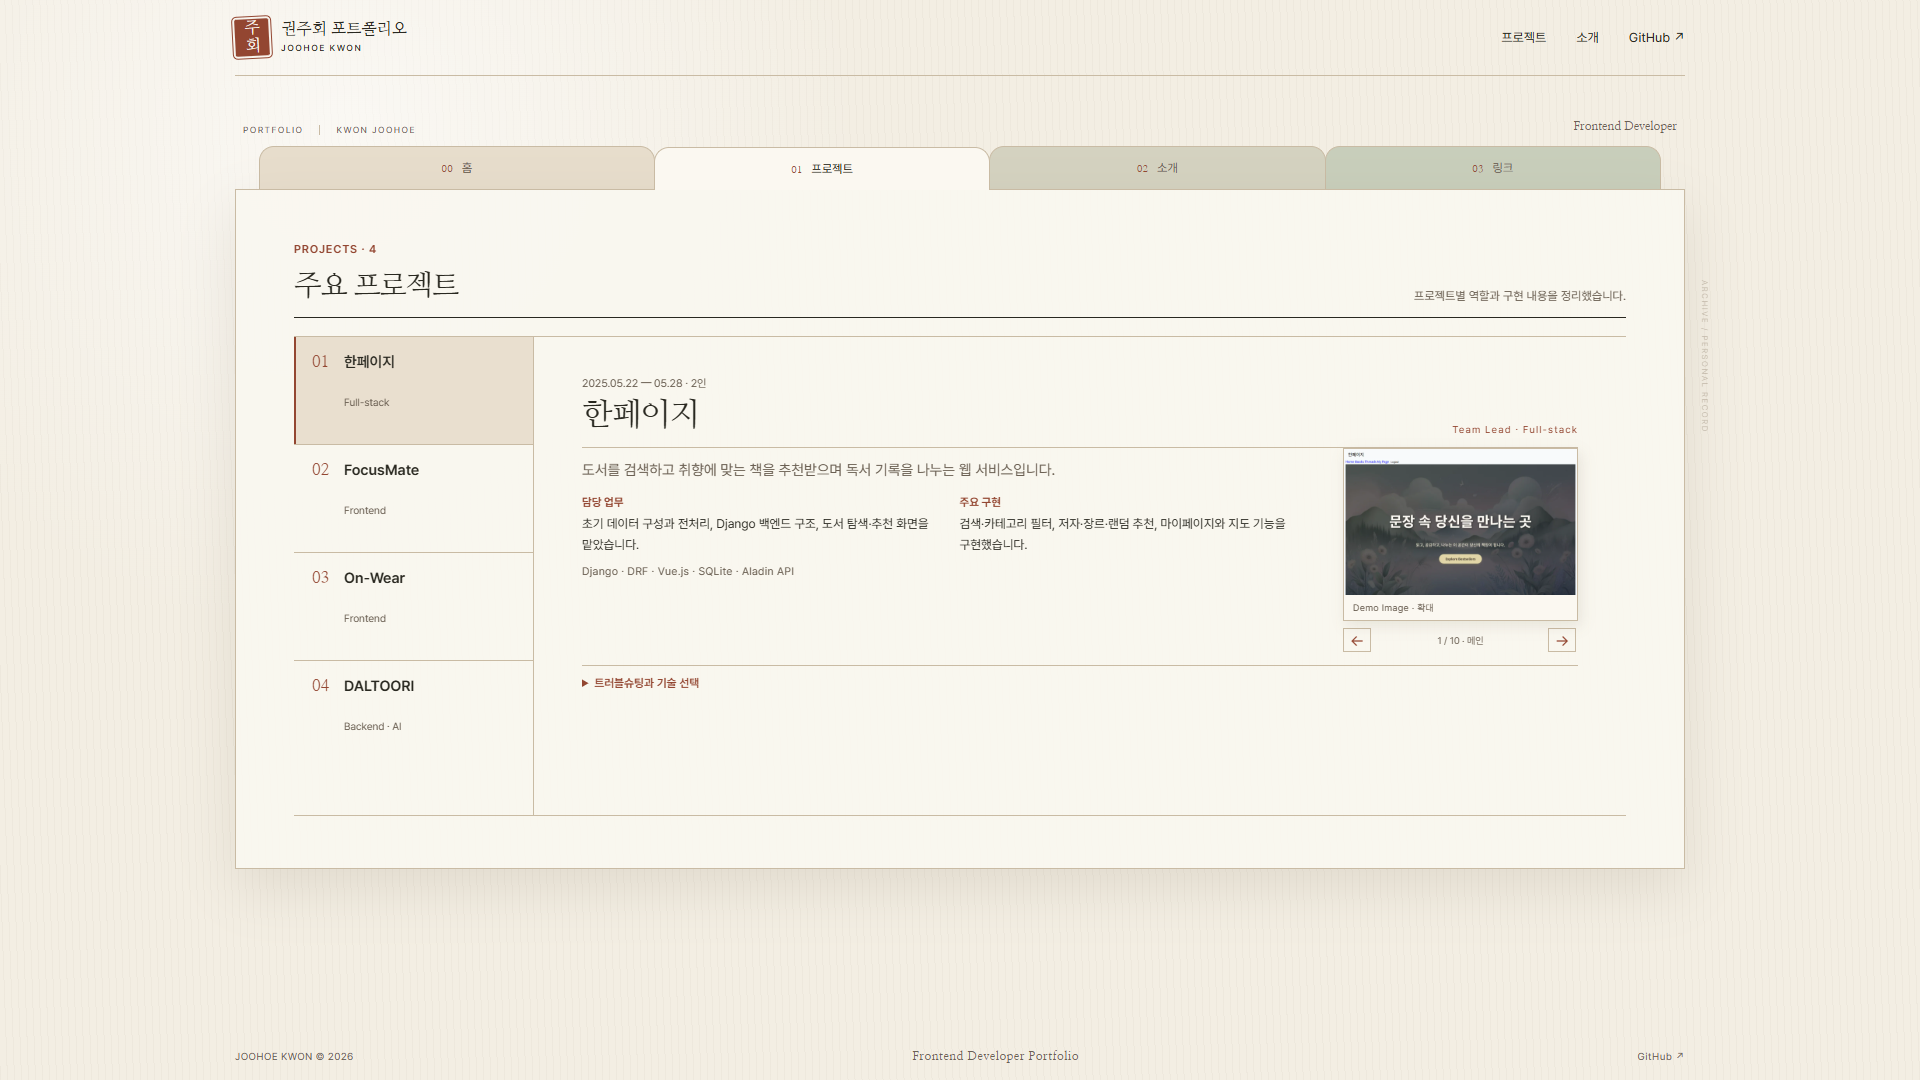
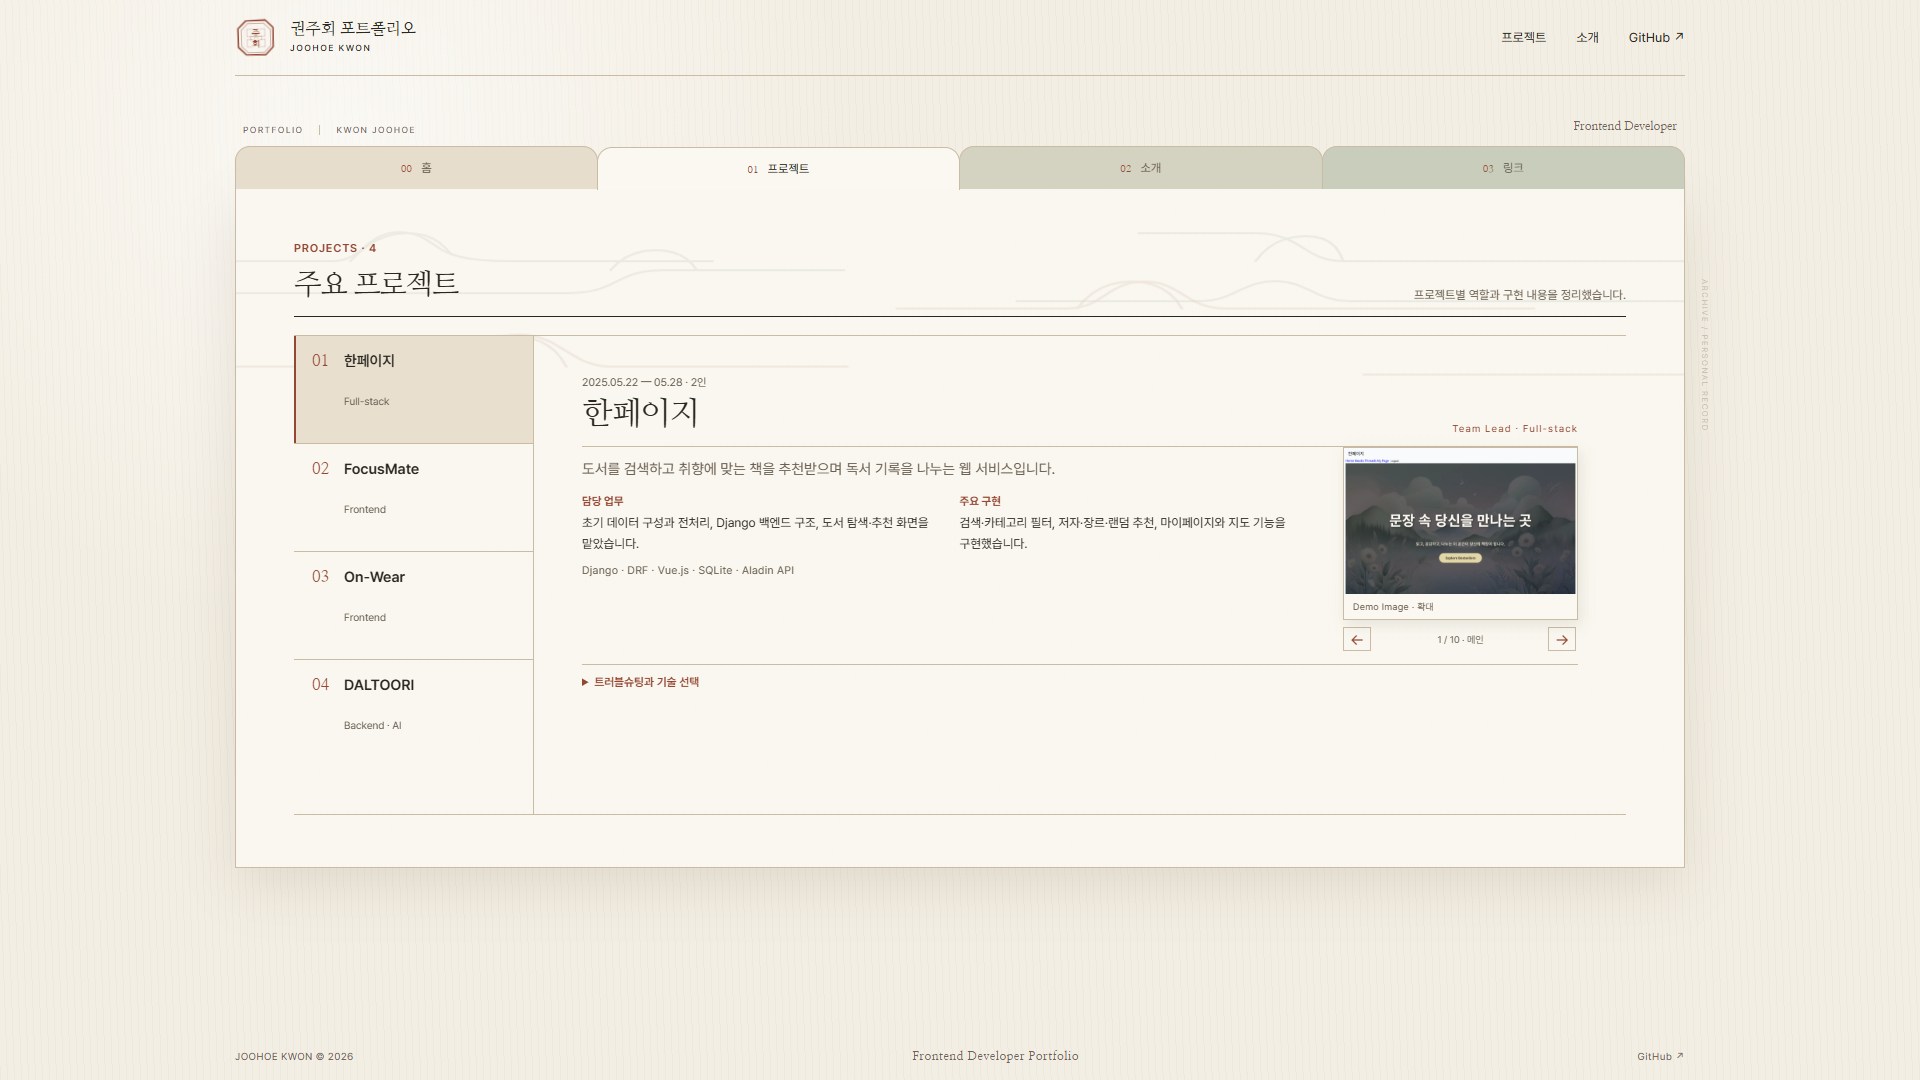
docs(t01): 인장과 구름 검증 기록

diff --git a/design.md b/design.md
@@ -1,6 +1,6 @@
 # introme 디자인 기준
 
-상태: 2026-09-15 전환형 아카이브 리디자인과 실제 프로젝트 화면 수록을 구현·로컬 검증했다. 동양풍 편집 디자인, 종이 파일 탭, 절제된 움직임을 유지하고 프로젝트별 실행 화면과 별도 트러블슈팅 기록을 더했다. 검증 결과는 docs/T01-tabbed-validation.json에 기록한다.
+상태: 2026-09-16 전환형 아카이브 리디자인과 실제 프로젝트 화면 수록을 구현·로컬 검증했다. 동양풍 편집 디자인, 종이 파일 탭, 절제된 움직임을 유지하고 프로젝트별 실행 화면과 별도 트러블슈팅 기록을 더했다. 붉은 면 도장은 선형 인장으로 교체하고, 기록철 뒤에는 낮은 대비의 전통 구름 선을 배치한다. 검증 결과는 docs/T01-tabbed-validation.json에 기록한다.
 
 ## 목적과 방향
 채용 담당자와 협업 상대에게 권주회의 관심과 일하는 방식, 구현 경험의 근거를 소개한다. 컨셉은 **한 권의 작업 기록**이다. 따뜻한 종이 위에 한글 명조체, 인장 같은 작은 이름표, 세로쓰기, 한옥 풍경을 배치한다. 계절은 소개 문구나 사용 시기를 규정하지 않고 사진의 분위기로만 남긴다. 경험 기록은 장식보다 먼저 읽혀야 한다.
@@ -44,6 +44,7 @@
 - 내부 검증 문구인 `확인된 역할`, `커밋에서 확인`을 사용자 화면에 노출하지 않는다. 화면에서는 `담당 업무`, `주요 구현`으로 쓴다.
 - 계절에 종속되는 소개 문장과 불필요한 버전 번호를 쓰지 않는다. 이미지는 분위기 요소로만 남긴다.
 - 사용자 참고 이미지의 파일철 구조, 넓은 여백, 종이색의 미묘한 차이와 얇은 먹선을 차용한다. 원본의 로고·QR·문구는 복제하지 않는다.
+- 상단 이름표는 붉은 면을 채운 사각 도장 대신 `주회` 글자와 매듭 문양을 결합한 선형 인장으로 표현한다. 기록철 탭은 좌우 여백 없이 본문 외곽선에 정확히 맞춘다.
 - 모바일에서는 활성 패널의 내용만 세로로 이어지고, 프로젝트 선택 탭은 2열로 정리한다.
 - 사진: 한옥 마당의 단풍, 한옥 창가의 책·찻잔·은행잎. ImageGen으로 이번 프로젝트를 위해 생성한 분위기 이미지2개다. 본인의 실제 촬영 사진이나 여행·독서 실적을 뜻하지 않는다.
 - 이미지마다 설명하는 alt를 두고, 사진 영역에 '계절 이미지 · AI 제작'을 표시한다. 파일은 dist/assets에 보관하며 화면에서 종횡비와 영역을 예약한다.
@@ -53,6 +54,7 @@
 - 최상위와 프로젝트 탭은 click·Enter·Space를 지원하며 방향키·Home·End로 이동한다. 포커스와 aria-selected를 함께 갱신한다.
 - 오래된 `#stories`와 `#evidence` 주소는 각각 프로젝트와 기록 패널로 연결한다.
 - 폴라로이드가10~12초 주기로3~5px만 움직인다. transform만 사용하고 내용이 뒤늦게 나타나는 스크롤 연출은 하지 않는다.
+- 기록철 뒤의 구름 선은 두 겹이 27~34초 주기로 수평 이동하며 콘텐츠 대비를 해치지 않는 낮은 불투명도를 유지한다.
 - '움직임 멈추기 / 다시 켜기' native button, aria-pressed 제공. 클릭·Enter·Space 동일 동작.
 - OS의 prefers-reduced-motion이면 자동 움직임과 전환, smooth scroll을 해제한다. OS 설정이 켜진 동안 화면 버튼은 '움직임 줄이기 적용 중'으로 표시한다.
 - JavaScript가 없으면 사진은 정지하고 네 최상위 패널과 네 프로젝트 패널을 모두 읽을 수 있다.

diff --git a/docs/T01-log.md b/docs/T01-log.md
@@ -106,3 +106,10 @@
 - 확대 dialog에도 이전·다음 버튼과 좌우 방향키 순환을 추가했다. 확대 화면을 넘기면 본문 캐러셀의 번호와 이미지도 함께 갱신된다.
 - 1366×768, 1920×1080, 390×844, 320×700에서 총 `10 / 8 / 7 / 4`장의 이미지 로딩, 본문·확대 캐러셀 순환, 키보드 탐색, 가로 넘침과 콘솔 오류를 확인했다.
 - FocusMate 인원을 5인으로 수정하고 프로젝트 로고 크기를 확대했다.
+
+## 2026-09-16 · 선형 인장과 구름 문양 정리
+
+- 상단의 붉은 면 도장을 `주회` 글자와 전통 매듭 격자를 결합한 선형 SVG 인장으로 교체했다. 별도 이미지 요청 없이 현재 색상 토큰과 함께 선명하게 렌더링된다.
+- 기록철 내부에 두 겹의 구름 선을 추가했다. 각각 27초·34초 주기로 transform만 사용해 천천히 흐르며, 기존 움직임 정지 버튼과 `prefers-reduced-motion` 설정에 함께 반응한다.
+- 최상위 네 탭의 좌우 안쪽 여백을 없애고 같은 비율의 4열로 정리해 탭 양 끝과 본문 외곽선이 정확히 이어지도록 수정했다.
+- 1366×768, 1920×1080, 390×844, 320×700에서 탭·캐러셀·키보드·해시·무스크립트 상태를 다시 검사했다. 모든 해상도에서 가로 넘침, 콘솔 오류, 실패 요청은 0이었다.
